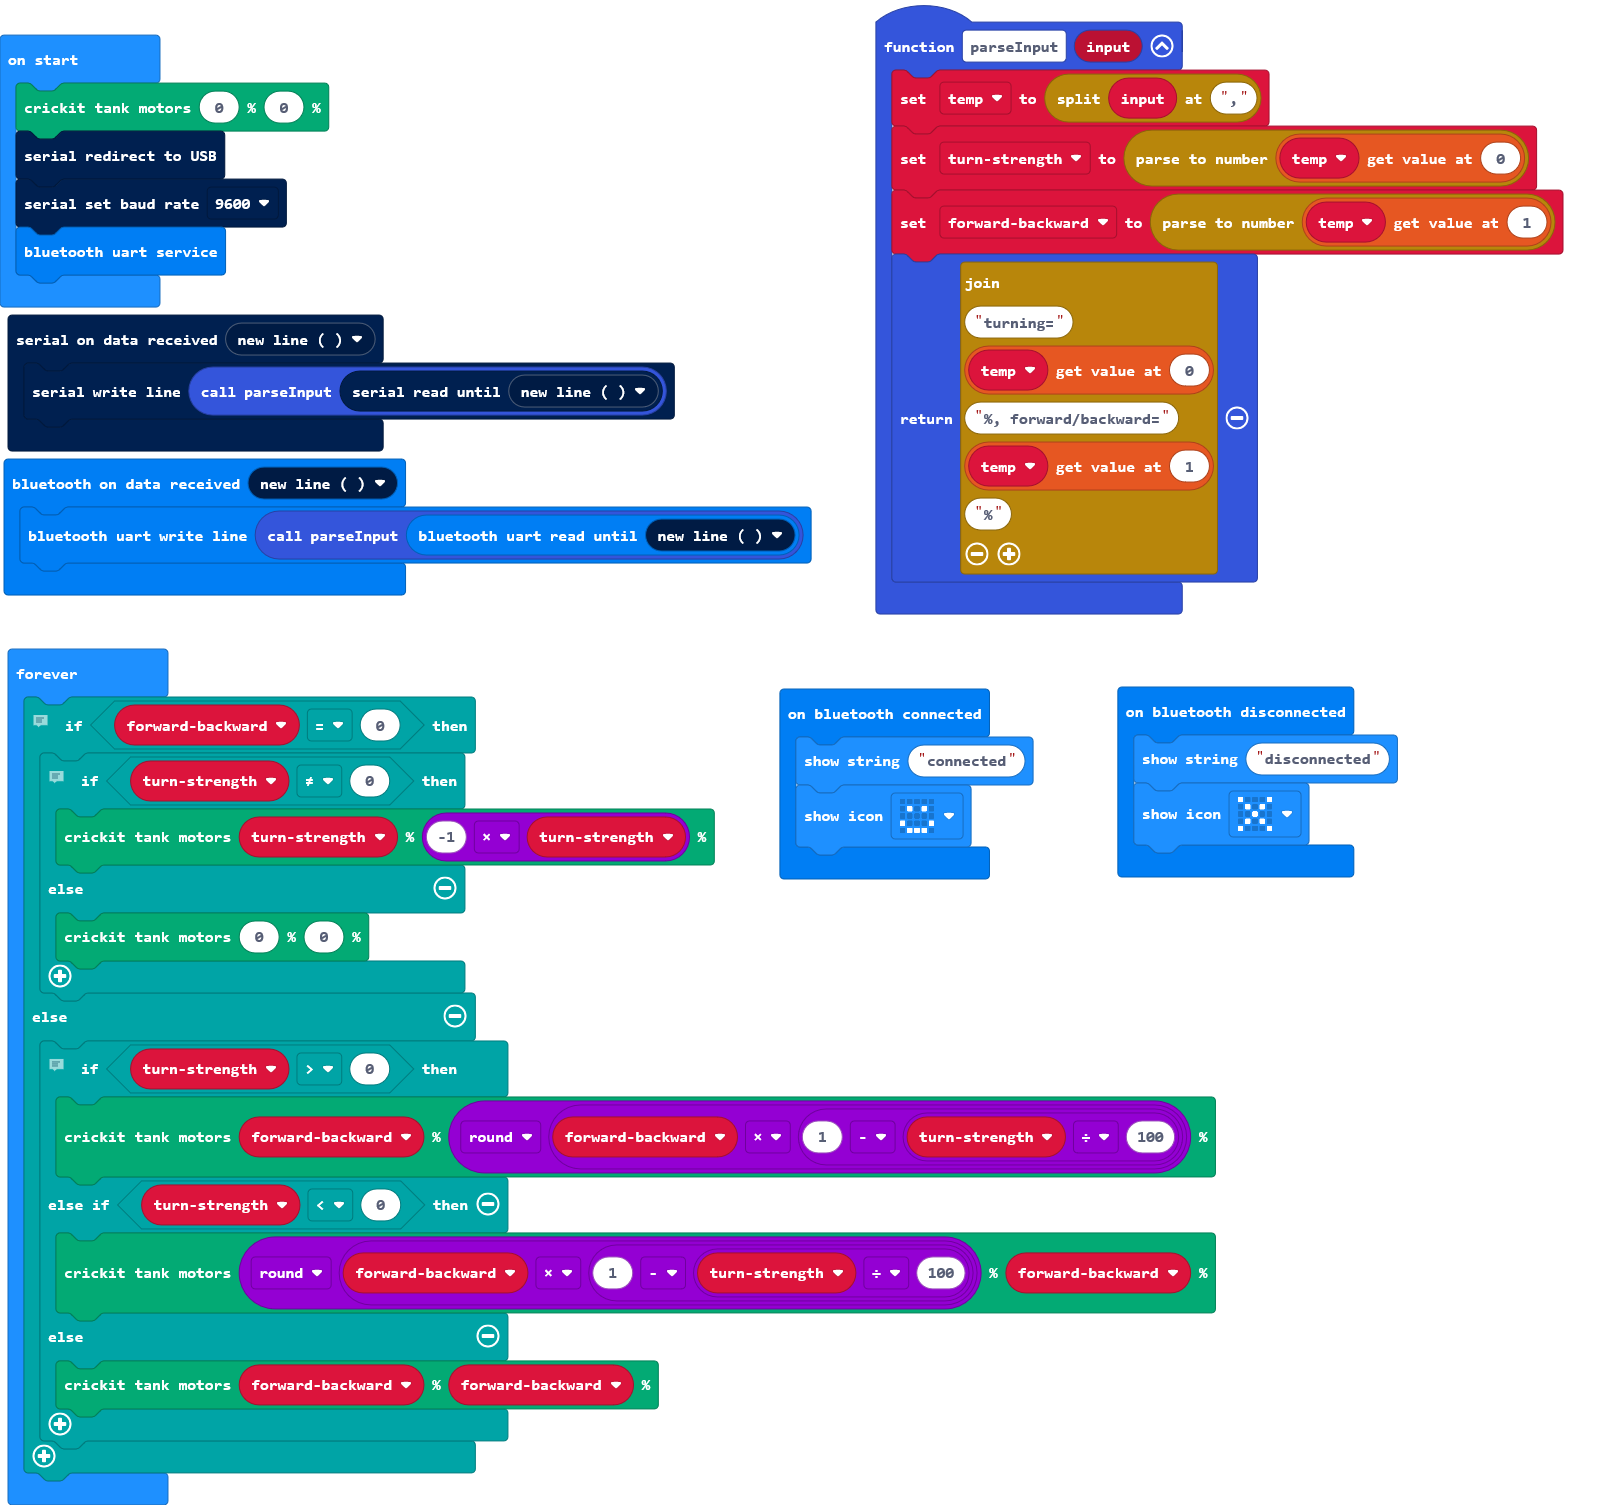
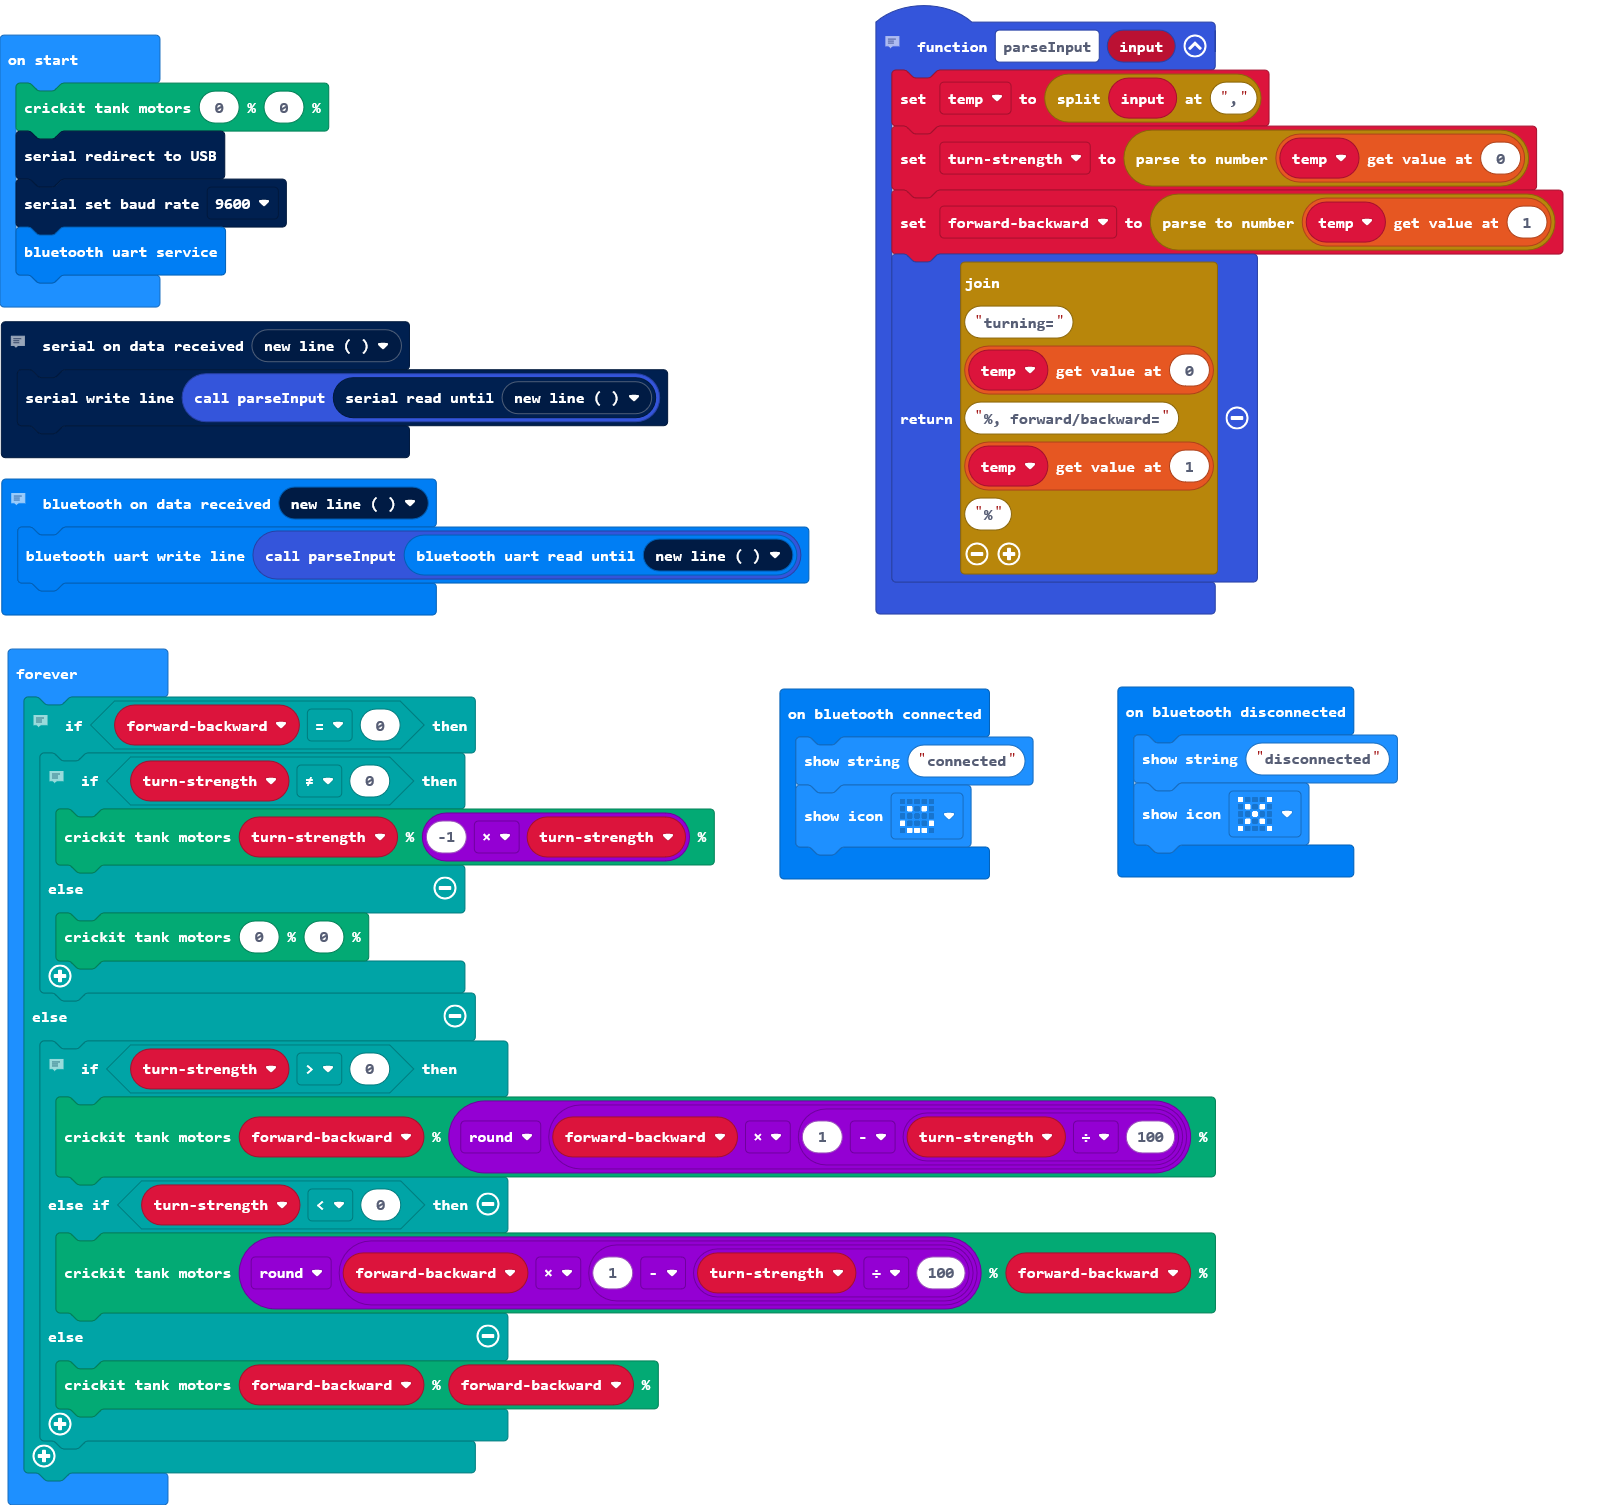
added comments & aligned some blocks better

diff --git a/main.ts b/main.ts
@@ -1,3 +1,4 @@
+// parses 2 comma-separated numbers and returns an echo for confirmation.
 function parseInput (input2: string) {
     temp = input2.split(",")
     turnstrength = parseFloat(temp[0])
@@ -12,9 +13,15 @@ bluetooth.onBluetoothDisconnected(function () {
     basic.showString("disconnected")
     basic.showIcon(IconNames.No)
 })
+// Parse text input from serial connection over the Bluetooth radio.
+// 
+// Expected input format is "<turning-strength>,<forward-backward>".
 bluetooth.onUartDataReceived(serial.delimiters(Delimiters.NewLine), function () {
     bluetooth.uartWriteLine(parseInput(bluetooth.uartReadUntil(serial.delimiters(Delimiters.NewLine))))
 })
+// Parse text input from serial connection over the USB wire. This feature is meant for debugging before using Bluetooth
+// 
+// Expected input format is "<turning-strength>,<forward-backward>".
 serial.onDataReceived(serial.delimiters(Delimiters.NewLine), function () {
     serial.writeLine("" + (parseInput(serial.readUntil(serial.delimiters(Delimiters.NewLine)))))
 })
